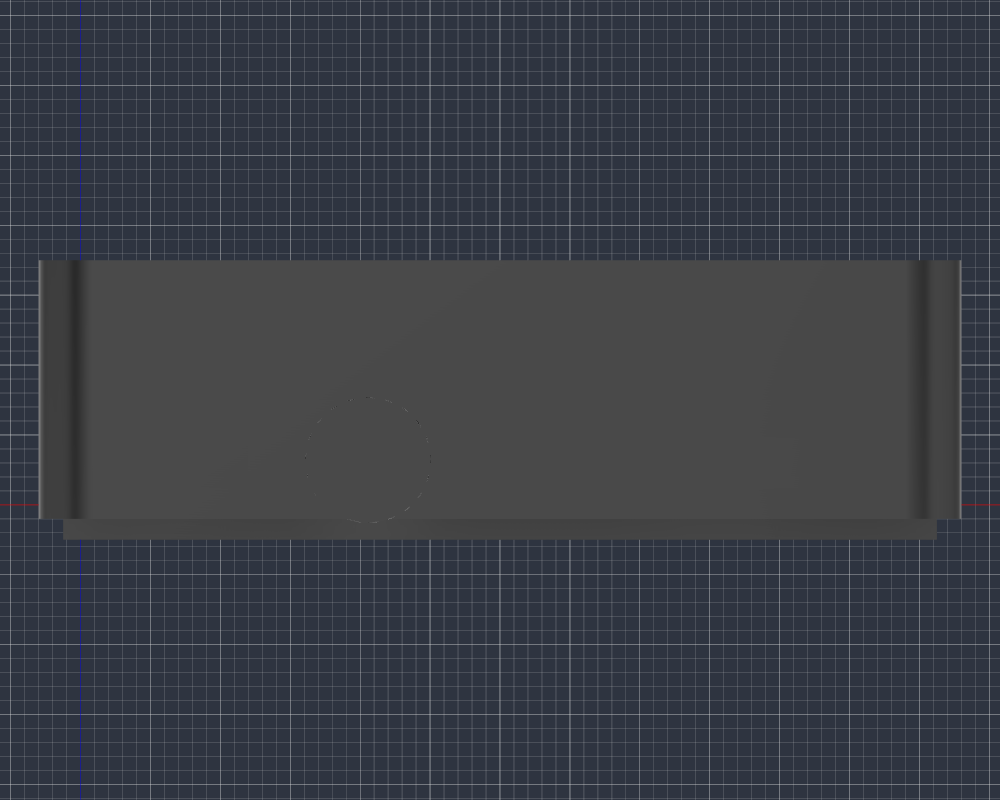
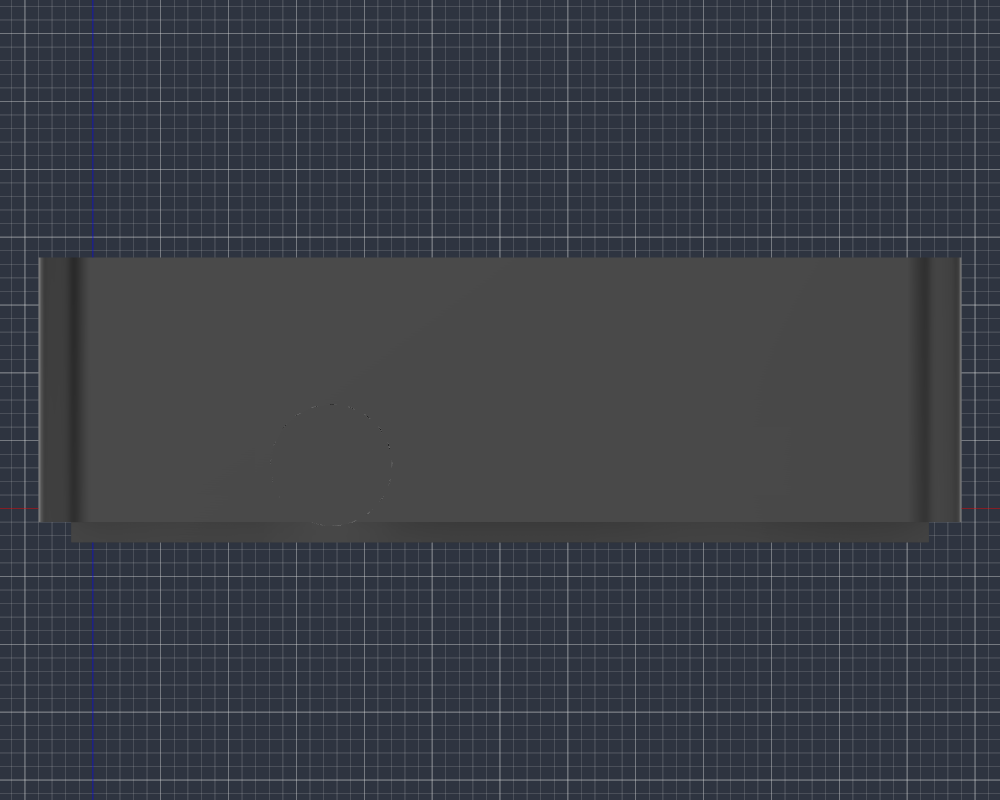
feat(fusion): 按实测反馈放宽配合 —— 盒子加大、C 口加高、DC 移位
用户实测反馈：
  "盒子有点小，尺寸刚好卡的话很难安装"
  "C口高度增加一些，宽度足够"
  "DC圆口往C口那边移动3mm"
  "盒子长宽都稍微增加一点"

# 改了什么

    外廓            66 x 86  ->  68 x 88        （各加 2mm）
    板与内腔单边间隙  0.25mm  ->  0.6mm           （原来太紧，实测难装）
    前壳内顶面        15      ->  16             （OLED 实测 14，原来只剩 1mm）
    PD  C 口高度      3.8     ->  5.2   (Z 1.0..6.2)   宽度不变（用户说宽度够）
    Pico C 口高度     3.6     ->  5.0   (Z 1.0..6.0)   宽度不变
    DC 圆孔中心 X    20.57    ->  17.57          （朝 C 口方向移 3mm）
    后壳前面托板     12..15/26..48  ->  23..48   （让开挪位后的 Ø9 占位 13.1..22.1）

装配后总厚 32mm（内顶抬了 1mm）。

# 验证（查几何）

    DC 孔: r=4.50 轴(0,-1,0) X 13.07..22.07 -> 中心 17.57
    PD  C 口: X 2.0..12.0  Z 1.0..6.2
    Pico C 口: X 41.0..51.5 Z 1.0..6.0
    前壳底壁 3 个环（三个开口都在）；后壳 Z 最高 0.0（托板顶到板底）
    两个件均单实体、零错误

# 交付

    MeshCase_Cover.stl  41 KB   30.075 cm3 / 37.3 g   68 x 88 x 21
    MeshCase_Tray.stl   25 KB   24.959 cm3 / 30.9 g   68 x 88 x 13.5

Changed region(s): [[0.0, 0.0, 1.0, 1.0]]

diff --git a/fusion/meshtastic-station/fit_check.py b/fusion/meshtastic-station/fit_check.py
@@ -9,16 +9,16 @@
 
 外壳内腔（与 enclosure.py 的参数一致）
     托盘   X -0.25..60.25   Y -0.25..80.25   Z -11.0 .. 6.0
-    前盖（平顶）                              Z  6.0 .. 15.0
+    前壳（平顶）                              Z -1.0 .. 16.0
     前盖高区（Y>=48）                         Z  6.0 .. 15.5
 """
 
 BOARD_W, BOARD_D, BOARD_T = 60.0, 80.0, 1.6
-FIT = 0.25
+FIT = 0.6
 TRAY_FLOOR_Z = -11.0
 SEAM = 6.0
-LO_Z = 15.0         # 方盒子：平顶，按 OLED 的 12mm 定
-HI_Z = 15.0
+LO_Z = 16.0         # 方盒子：平顶（OLED 实测 14，留 2mm）
+HI_Z = 16.0
 STEP_Y = 48.0
 
 CAV = {
